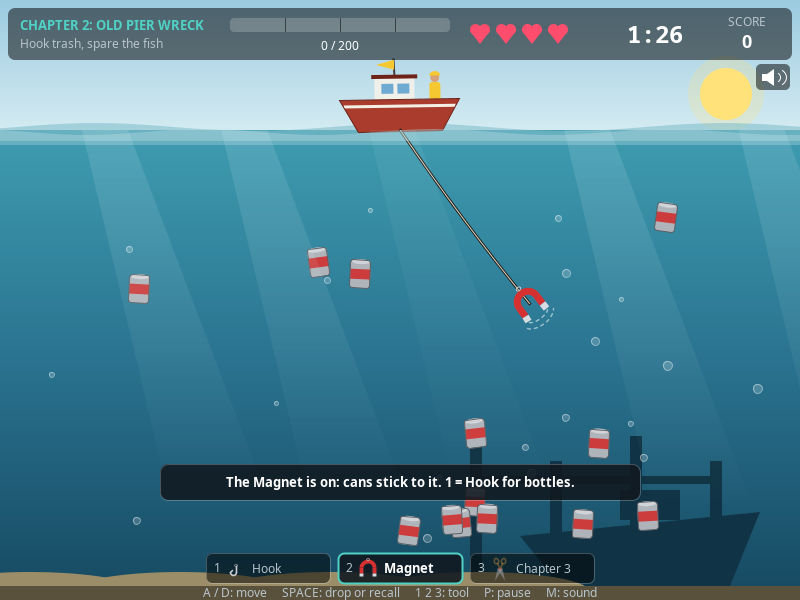
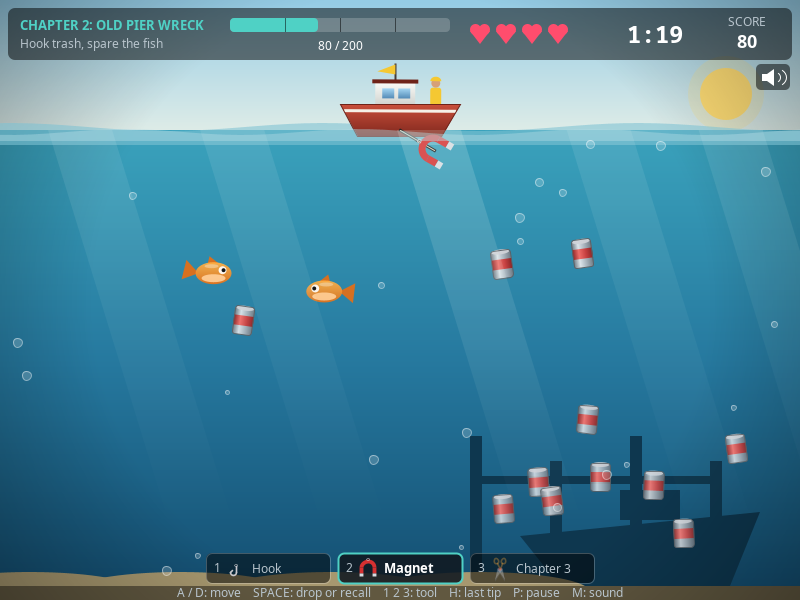
docs: describe window scaling, full screen and the clearing sea

diff --git a/README.md b/README.md
@@ -32,6 +32,10 @@ JDK 17 or newer. Check yours with `java -version`. No libraries needed.
 The scripts work from any folder. They look for a JDK 17+ in `JAVA_HOME` first,
 then on the `PATH`, and stop with "Need JDK 17+" if there isn't one.
 
+The window can be resized, and `F11` switches to full screen. The game is laid out
+for 800 x 600 and enlarged to fit; because everything is drawn as shapes, it stays
+sharp at any size. A window of another shape gets black bars at the sides.
+
 To build by hand instead, from the project folder:
 
 ```bash
@@ -51,6 +55,7 @@ java -cp out Main
 | `H` | Show the last tip or hint again |
 | `P` or `Esc` | Pause (resume, sound on or off, restart the chapter, or quit to the menu) |
 | `M` | Sound on or off, on any screen (except while typing a name) |
+| `F11` | Full screen on or off |
 | Letters, `Backspace`, `Enter` | Type and save your name when a run makes the high-score list |
 | `Enter` | Confirm, next story page |
 | `Esc` on a story page | Skip the story |
@@ -79,6 +84,8 @@ What each tool does:
 - Hooking a fish costs 1 health and the fish swims away. Pufferfish and barracuda
   (chapter 3) cost 2. A pufferfish swells when the hook is near; a barracuda
   flashes, then charges.
+- The sea shows your progress: it starts murky and turns clearer with every tenth of
+  the quota. Things deep down look a little hazier than things near the surface.
 - Reaching the quota stops the clock. The chapter is cleared when that catch
   reaches the boat.
 - Run out of time or health and you are fired. You can retry the chapter;
@@ -151,7 +158,8 @@ FISH2TRASH/
 │   │   └── HintRule         interface, one small class per reason for a hint:
 │   │                        FishStreakRule, SlipStreakRule, IdleRule, LowTimeRule, LowHealthRule
 │   ├── ui/                  the screens
-│   │   ├── GamePanel        frame timer and keyboard
+│   │   ├── GameWindow       the window: starting size, resizing, full screen (F11)
+│   │   ├── GamePanel        frame timer and keyboard; enlarges the picture to fit the window
 │   │   ├── ScreenManager    which screen is showing, fades between them
 │   │   ├── Screen           interface every screen implements
 │   │   ├── AudioEventListener   picks the sound for each game event
@@ -159,7 +167,8 @@ FISH2TRASH/
 │   │   │   ChapterClearScreen, GameOverScreen, VictoryScreen, NameEntryScreen,
 │   │   │   HighScoreScreen
 │   │   └── render/          SceneRenderer, HudPainter, EffectsSystem, backgrounds and
-│   │                        water, one painter per object kind and per tool, BadgePainter
+│   │                        water, one painter per object kind and per tool, BadgePainter,
+│   │                        PixelImages (pictures drawn once and reused)
 │   └── util/
 │       ├── GameConstants    every tuning number in one place
 │       ├── StoryText        every line of text the player reads
@@ -179,10 +188,12 @@ A class diagram is in [docs/class-diagram.md](docs/class-diagram.md).
 
 ## How the classes work together
 
-1. `Main` builds a `JFrame` on the event-dispatch thread and adds a `GamePanel`.
+1. `Main` builds a `GamePanel` on the event-dispatch thread and hands it to a
+   `GameWindow`, which owns the `JFrame`.
 2. `GamePanel` runs a `javax.swing.Timer` (~60 fps). Every tick it measures the real
    time since the last tick (`dt`) and passes it, and any fresh key press, to the
-   `ScreenManager`. Painting only *reads* the game.
+   `ScreenManager`. Painting only *reads* the game. Each frame is drawn into an image
+   first, enlarged to fit the window, and then copied to the screen in one go.
 3. `ScreenManager` holds one `Screen` per `GameState` and the `GameSession` (the run).
 4. `GameScreen` asks the session for a `GameManager` for the current chapter.
 5. `GameManager` owns the `Player`, the `Boat` (which owns the `Hook`), a `TimeLimit`
@@ -255,6 +266,7 @@ no test library is needed. The script exits with an error if any check fails.
 | `SynthTest` | Each sound has the right length and pitch, starts and ends quietly, and comes out the same every time; the player stays silent without a sound device |
 | `AudioEventTest` | The right sound for each game event; ten clock ticks in the last ten seconds |
 | `RenderTest`, `EffectsTest`, `MathxTest` | Drawing into an off-screen image, each chapter's look, the bubble and effect pools; the math helpers |
+| `ScalingTest` | The picture grows with the window and gets bars when the shape differs; the sea clears step by step as the quota fills; deep objects look hazier; only a few background pictures are kept |
 
 The tests cannot judge how the game feels or sounds. Use the checklist below for that,
 and [docs/playtest.md](docs/playtest.md) when you tune the numbers.
@@ -263,6 +275,12 @@ and [docs/playtest.md](docs/playtest.md) when you tune the numbers.
 
 **Menus and story**
 - [ ] The game opens on the menu. Up/Down move, Enter selects.
+- [ ] Drag the window larger: the picture grows with it and stays sharp. A wide window
+      shows black bars left and right.
+- [ ] `F11` fills the screen; `F11` again brings the window back. In a chapter this
+      pauses the game.
+- [ ] The game runs smoothly at the largest size. (Tell the team if it does not, and
+      on which computer.)
 - [ ] How to Play opens and Enter returns.
 - [ ] Start shows the opening and chapter 1 story. Enter finishes a page, then turns it.
 - [ ] Esc skips the story.
@@ -279,6 +297,7 @@ and [docs/playtest.md](docs/playtest.md) when you tune the numbers.
 - [ ] A fish costs 1 health, gives no points, and swims away.
 - [ ] Tips appear at about 1, 8 and 16 seconds.
 - [ ] At 100 points the timer stops; the chapter clears when the catch reaches the boat.
+- [ ] The murky green water turns a little clearer and bluer with every bottle.
 
 **Chapter 2**
 - [ ] The story ends with a NEW GEAR page; the Magnet is on the line at the start.
